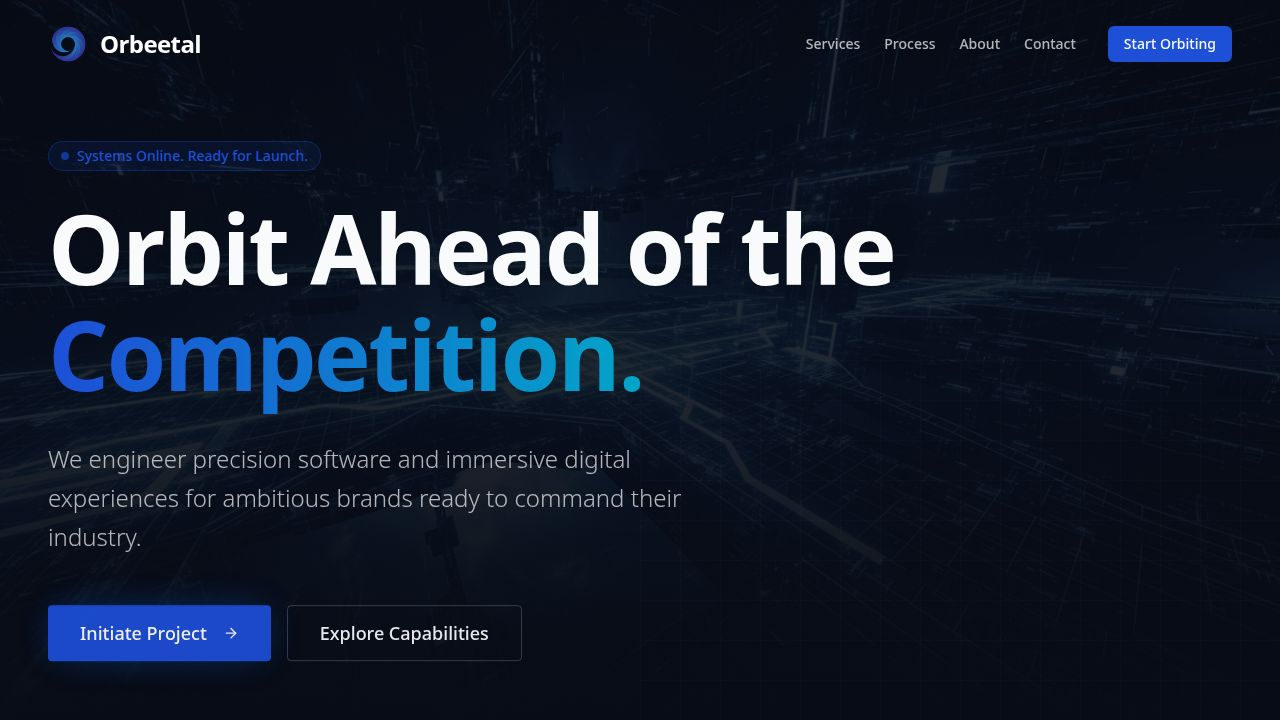
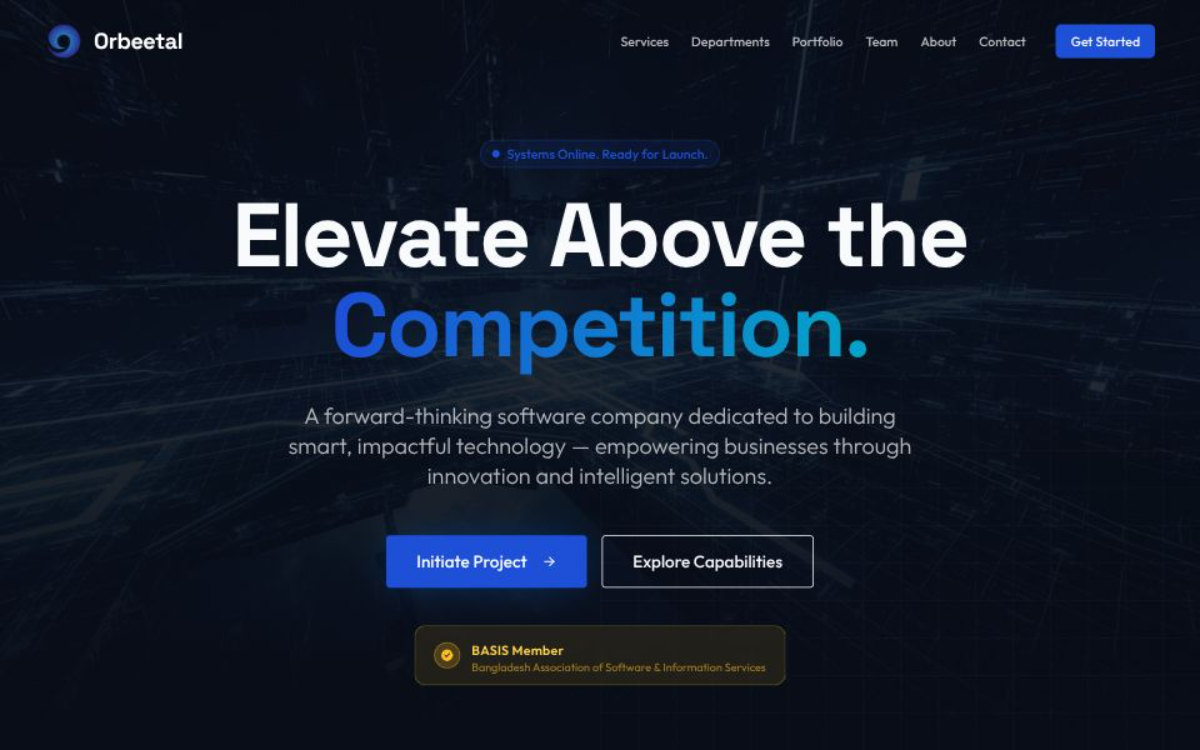
refactor: update navbar branding, adjust About section spacing, and add Poppins font

diff --git a/src/components/sections/About.jsx b/src/components/sections/About.jsx
@@ -18,15 +18,15 @@ export function About() {
             viewport={{ once: true }} transition={{ duration: 0.7 }}
           >
             <p className="text-primary text-sm font-medium uppercase tracking-widest mb-4">About Orbeetal</p>
-            <h2 className="text-4xl md:text-6xl font-display font-bold mb-8">
+            <h2 className="text-4xl md:text-6xl font-display font-bold mb-6">
               One of the Fastest Ways to <span className="text-gradient">Business Growth</span>
             </h2>
             <p className="text-xl text-white/70 mb-6 font-light leading-relaxed">
               Orbeetal is a forward-thinking software company based in Dhaka, Bangladesh. We specialize in delivering cutting-edge digital solutions — from web and mobile development to AI-powered systems and cybersecurity — helping businesses of all sizes compete and grow in the digital age.
             </p>
-            <p className="text-white/60 leading-relaxed mb-8">
+            {/* <p className="text-white/60 leading-relaxed mb-8">
               Our team of dedicated directors and specialists work collaboratively to bring your vision to life with precision, creativity, and technical excellence.
-            </p>
+            </p> */}
             <ul className="space-y-4">
               {whyChooseUs.map((item) => (
                 <li key={item.title} className="flex items-start gap-3 text-white/80">

diff --git a/src/components/Navbar.jsx b/src/components/Navbar.jsx
@@ -30,10 +30,10 @@ export function Navbar() {
       }`}
     >
       <div className="container mx-auto px-6 md:px-12 flex items-center justify-between">
-        <Link href="/" className="flex items-center gap-3 z-50">
-          <img src="/logo.webp" alt="Orbeetal Logo" className="w-10 h-10 object-contain" />
-          <span className="font-display font-bold text-2xl tracking-tight text-white">Orbeetal</span>
-        </Link>
+        <a href="/" className="flex items-center gap-2 z-50">
+          <img src="/logo.webp" alt="Orbeetal Logo" className="w-12 h-12 object-contain" />
+          <span className="font-poppins font-semibold text-3xl text-white">Orbeetal</span>
+        </a>
 
         {/* Desktop Nav */}
         <div className="hidden lg:flex items-center gap-8">
@@ -61,7 +61,7 @@ export function Navbar() {
 
         {/* Mobile Nav Overlay */}
         <div
-          className={`fixed inset-0 bg-background/95 backdrop-blur-xl z-40 flex flex-col items-center justify-center gap-6 transition-all duration-300 ${
+          className={`fixed h-screen lg:hidden inset-0 bg-background/95 backdrop-blur-xl z-40 flex flex-col items-center justify-center gap-6 transition-all duration-300 ${
             isMobileMenuOpen ? "opacity-100 pointer-events-auto" : "opacity-0 pointer-events-none"
           }`}
         >

diff --git a/tailwind.config.js b/tailwind.config.js
@@ -51,6 +51,7 @@ export default {
                 serif: 'var(--app-font-serif)',
                 mono: 'var(--app-font-mono)',
                 display: 'var(--app-font-display)',
+                poppins: 'var(--app-font-poppins)',
             },
             borderRadius: {
                 sm: 'calc(var(--radius) - 4px)',

diff --git a/src/data/about.js b/src/data/about.js
@@ -24,7 +24,7 @@ export const whyChooseUs = [
   },
   {
     title: "End-to-End Service",
-    description: "From strategy and design to development and launch, we handle it all.",
+    description: "From strategy & design to development and launch, we handle it all.",
   },
   // {
   //   title: "Digital Growth Strategy",

diff --git a/src/index.css b/src/index.css
@@ -1,4 +1,5 @@
 @import url('https://fonts.googleapis.com/css2?family=Outfit:wght@300;400;500;600;700;800&family=Space+Grotesk:wght@300;400;500;600;700&display=swap');
+@import url('https://fonts.googleapis.com/css2?family=Poppins:wght@300;400;500;600;700;800&display=swap');
 
 @tailwind base;
 @tailwind components;
